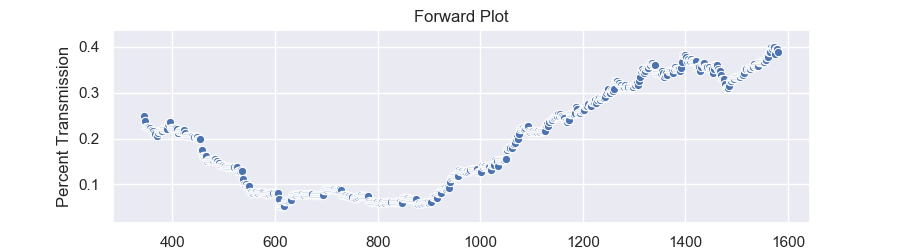
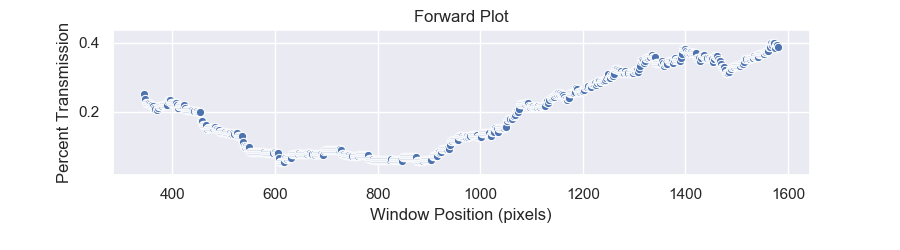
change graph formatting so xaxis fits

diff --git a/xml_file_to_pandas_df.py b/xml_file_to_pandas_df.py
@@ -185,8 +185,9 @@ def transmission_scatter ( kern_count_df ):
 
 	kern_count_df['Percent_Transmission'] = kern_count_df['Total_Fluor']/kern_count_df['Total_Kernels']
 
-	transmission_plot = sns.lineplot(x='window_mean', y='Percent_Transmission', data=kern_count_df, palette='Set1')
+	transmission_plot = sns.scatterplot(x='window_mean', y='Percent_Transmission', data=kern_count_df, palette='Set1')
 	transmission_plot.ticklabel_format(axis='x', useOffset=False)
+	plt.gcf().subplots_adjust(bottom=0.3)
 
 	#set title
 	plt.title('Forward Plot')

diff --git a/reverse_plot.py b/reverse_plot.py
@@ -10,7 +10,6 @@ import seaborn as sns
 
 
 
-sns.set(rc={'figure.figsize': (9, 2.5)})
 
 
 def parse_xml(input_xml):
@@ -173,6 +172,8 @@ def transmission_scatter ( kern_count_df ):
 
 	kern_count_df['Percent_Transmission'] = kern_count_df['Total_Fluor']/kern_count_df['Total_Kernels']
 	transmission_plot = sns.scatterplot("window_mean", "Percent_Transmission", data=kern_count_df, palette='Set1')
+	sns.set(rc={'figure.figsize': (9, 2.5)})
+	plt.gcf().subplots_adjust(bottom=0.3)
 
 	#set title
 	plt.title('Reverse Plot')

diff --git a/Terminal_xmltoscatter.py b/Terminal_xmltoscatter.py
@@ -239,7 +239,8 @@ def transmission_scatter ( kern_count_df, xml ):
 	#creating plot
 	transmission_plot = sns.lineplot(x="window_mean", y="Percent_Transmission", data=kern_count_df)
 
-	#sns.set(rc={'figure.figsize': (10, 5)})
+	sns.set(rc={'figure.figsize': (9, 2.5)})
+	plt.gcf().subplots_adjust(bottom=0.3)
 
 	#set title
 	plt.title(xml[:-4]+' Plot')
